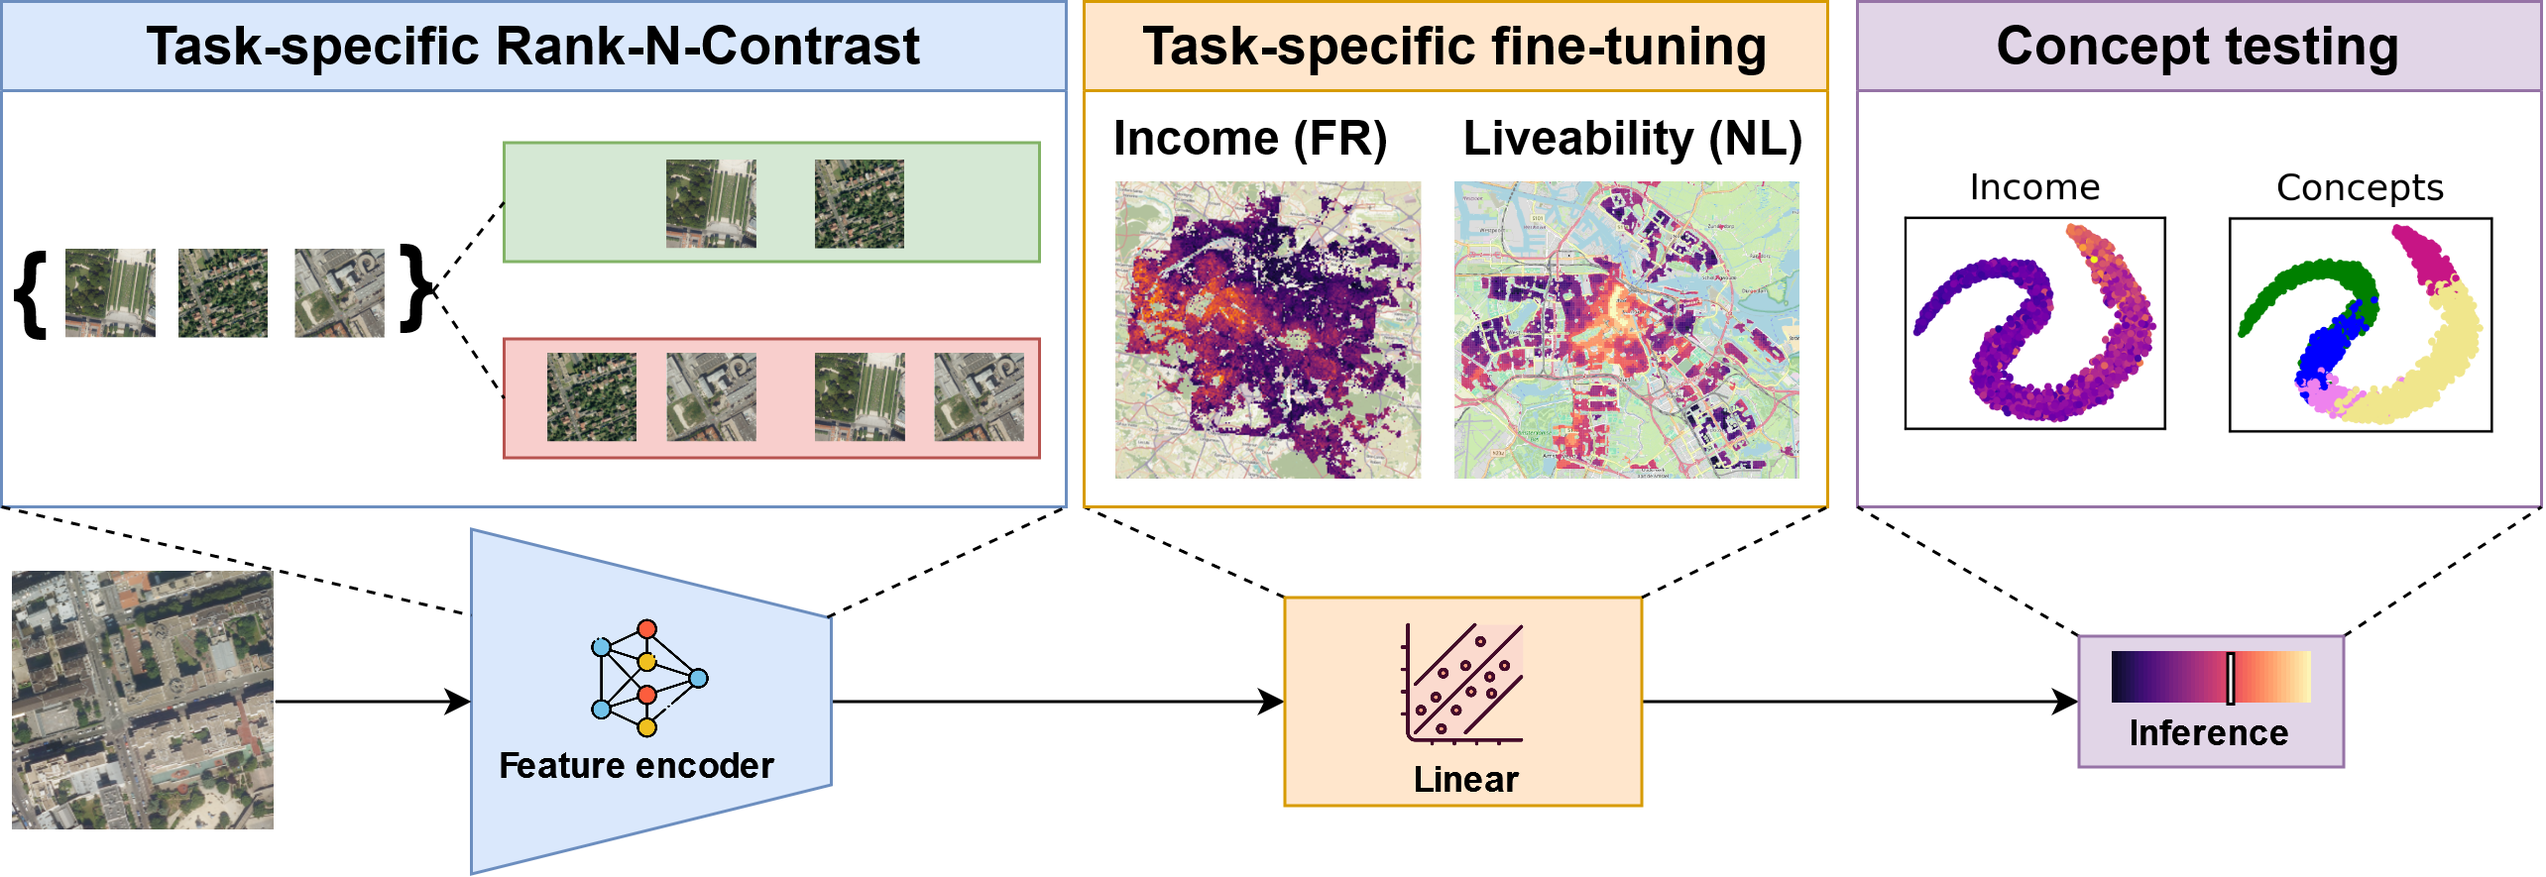
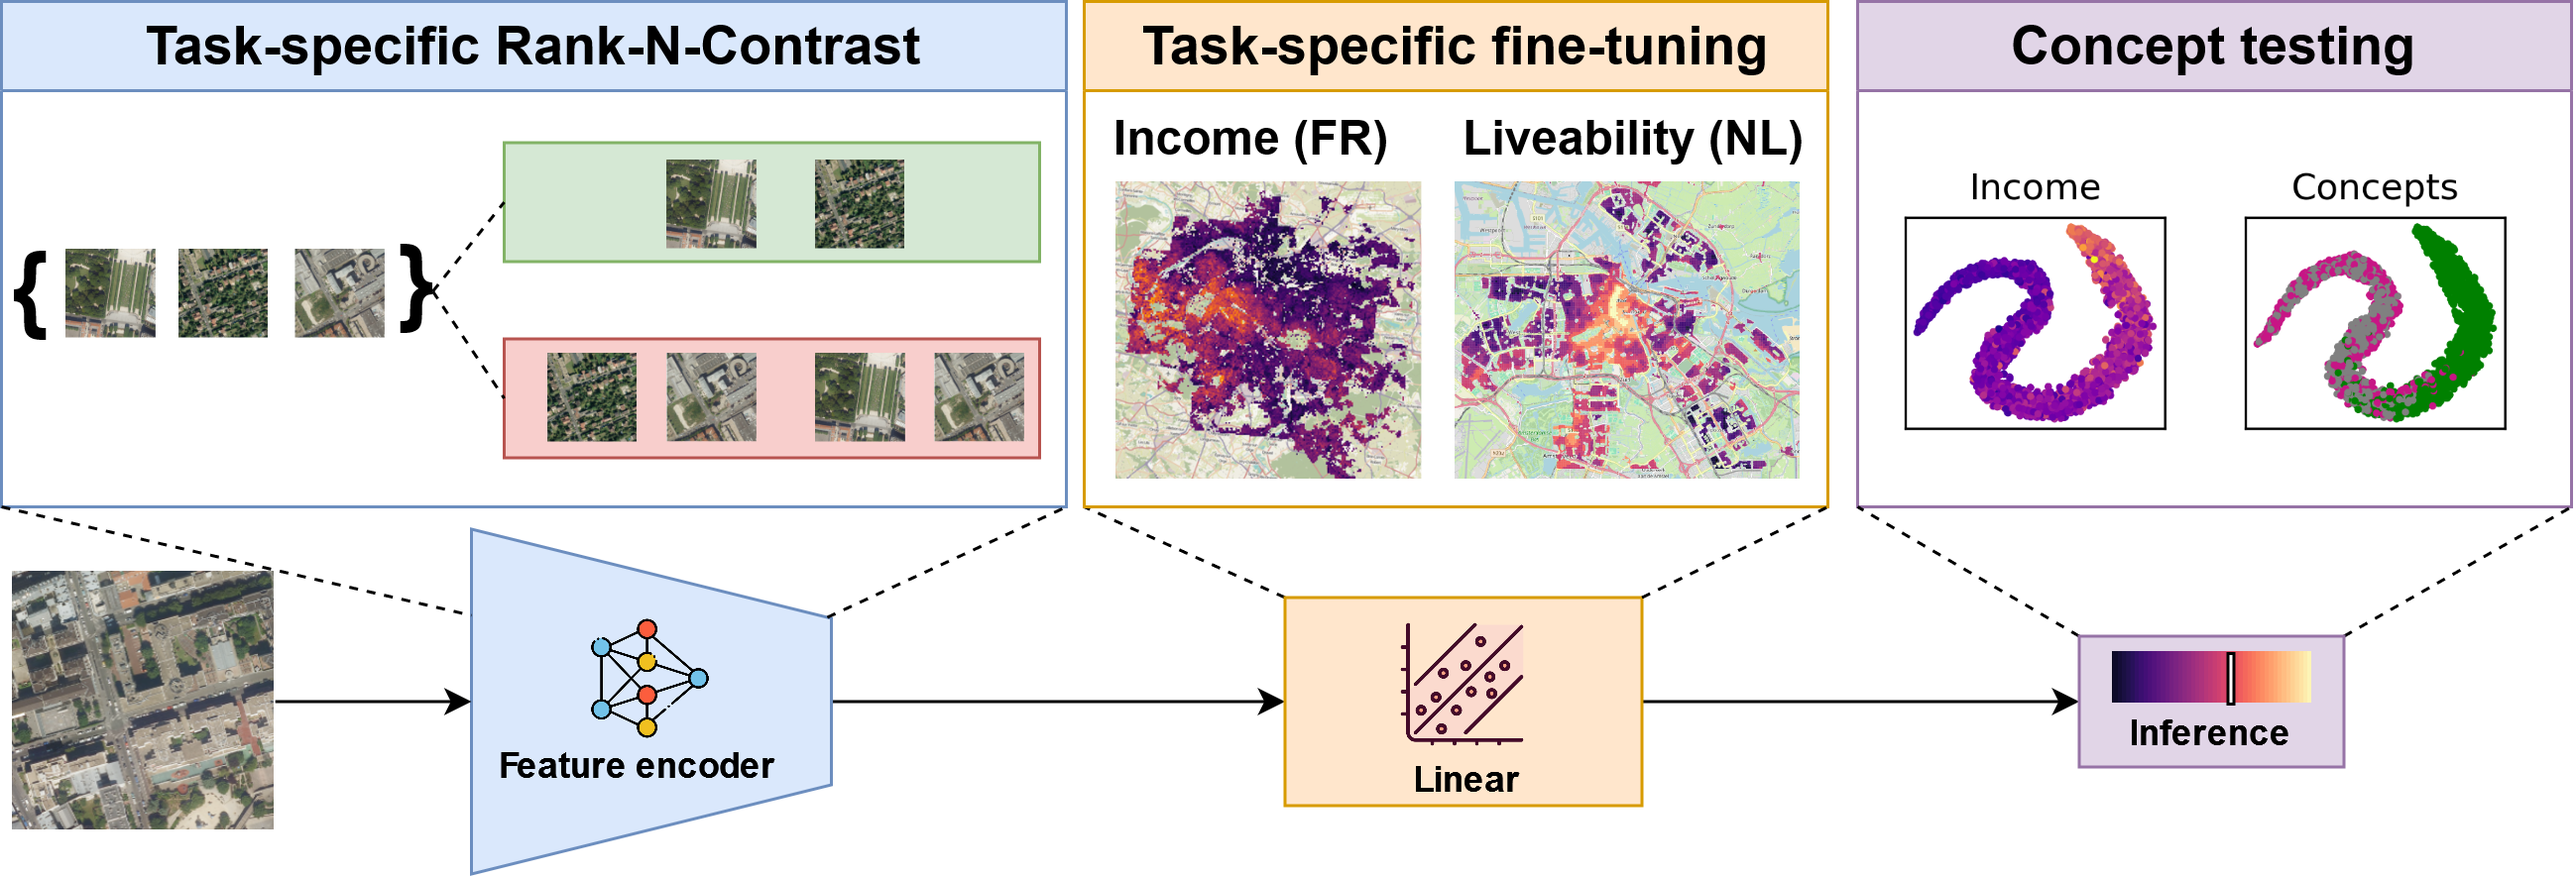
- Implemented separate min-max normalization for the positive and the negative TCAV values - Updated Readme

diff --git a/visualization/visualize_tcav.py b/visualization/visualize_tcav.py
@@ -68,11 +68,28 @@ def get_tcav_scores_with_tsne_activations(results_folder):
 
     return activations_tcav_scores
 
-def normalize_TCAV_value(concept_data):
+def min_max_norm(concept_data):
     max_concept_value = concept_data["TCAV_value"].max()
     min_concept_value = concept_data["TCAV_value"].min()
-    concept_data["TCAV_value"] = 2 * ((concept_data.TCAV_value - min_concept_value) / (max_concept_value - min_concept_value)) - 1
+    concept_data["TCAV_value"] = (concept_data.TCAV_value - min_concept_value) / (max_concept_value - min_concept_value)
     return concept_data
+
+def normalize_TCAV_value(concept_data):
+    normalized_concept_data = []
+    pos_concept_sensitivity = concept_data.loc[concept_data["TCAV_value"] >= 0]
+    negative_concept_sensitivity = concept_data.loc[concept_data["TCAV_value"] < 0]
+
+    if len(pos_concept_sensitivity.index) > 0:
+        pos_concept_sensitivity = min_max_norm(pos_concept_sensitivity)
+        normalized_concept_data.append(pos_concept_sensitivity)
+    if len(negative_concept_sensitivity.index) > 0:
+        negative_concept_sensitivity = min_max_norm(negative_concept_sensitivity)
+        # the negative concept values are normalized from 0 to -1
+        negative_concept_sensitivity["TCAV_value"] = negative_concept_sensitivity['TCAV_value'].apply(lambda x: -1 + x)
+        normalized_concept_data.append(negative_concept_sensitivity)
+
+    normalized_concept_data = pd.concat(normalized_concept_data)
+    return normalized_concept_data
 
 def visualize_tcav_scores_with_tsne_activations():
 
@@ -93,31 +110,29 @@ def visualize_tcav_scores_with_tsne_activations():
         fig, axs = plt.subplots(nrows=1, ncols=2,figsize=(6, 2.0))
         divider = make_axes_locatable(axs[1])  # Create a divider for colorbar placement
         cax = divider.append_axes('right', size='3%', pad=0.05)  # Add axes for colorbar
+        norm = plt.Normalize(-1, 1)
 
         plt.subplots_adjust(right=0.8)  # Adjust margins for spacing
 
-        ax_income = sns.scatterplot(x='tsne_dim_1', y='tsne_dim_2', hue='TCAV_value', palette="plasma",
+        ax_income = sns.scatterplot(x='tsne_dim_1', y='tsne_dim_2', hue='TCAV_value',  hue_norm=norm, palette="plasma",
                                     data=income_concept_data, s=5, ax=axs[0])
-        norm = plt.Normalize(income_concept_data['TCAV_value'].min(), income_concept_data['TCAV_value'].max())
-        sm = plt.cm.ScalarMappable(cmap="plasma", norm=norm)
-        sm.set_array([])
+
         ax_income.xaxis.set_major_locator(ticker.NullLocator())
         ax_income.yaxis.set_major_locator(ticker.NullLocator())
         ax_income.set(xlabel=None, ylabel=None)
         ax_income.get_legend().remove()
         ax_income.set_title("Income")
 
-        ax_liveability = sns.scatterplot(x='tsne_dim_1', y='tsne_dim_2', hue='TCAV_value', palette="plasma",
+        ax_liveability = sns.scatterplot(x='tsne_dim_1', y='tsne_dim_2', hue='TCAV_value', hue_norm=norm, palette="plasma",
                                          data=liveability_concept_data, s=5, ax=axs[1])
-        norm = plt.Normalize(liveability_concept_data['TCAV_value'].min(), liveability_concept_data['TCAV_value'].max())
-        sm = plt.cm.ScalarMappable(cmap="plasma", norm=norm)
-        sm.set_array([])
         ax_liveability.xaxis.set_major_locator(ticker.NullLocator())
         ax_liveability.yaxis.set_major_locator(ticker.NullLocator())
         ax_liveability.set(xlabel=None, ylabel=None)
         ax_liveability.get_legend().remove()
         ax_liveability.set_title("Liveability")
         label = "Conceptual sensitivity"
+        sm = plt.cm.ScalarMappable(cmap="plasma", norm=norm)
+        sm.set_array([])
         colorbar = fig.colorbar(sm, cax=cax, orientation='vertical')
         colorbar.set_label(label)
         colorbar.ax.set_ylabel(label, rotation=270, labelpad=15, fontsize=10)
@@ -163,7 +178,7 @@ def get_concept_layer_accuracy(dataset_name, baseline_model_folder, contrastive_
     axs.set_ylabel("SVM concept accuracy")
     plt.legend(loc='center right', title="Encoder")
     fig.tight_layout()
-    plt.savefig(os.path.join(visualization_out_dir_probed, "{}_concept_layer_accuracy.pdf".format(dataset_name)),
+    plt.savefig(os.path.join(visualization_out_dir_probed, "{}_concept_layer_accuracy.png".format(dataset_name)),
                 dpi=300)
     plt.close()
 

diff --git a/Readme.md b/Readme.md
@@ -6,7 +6,7 @@ The proposed pipeline enables intuitive visual explanations of the deep learning
 ![Proposed workflow](method_workflow.png)
 
 ## Implementation ##
-The implementation of the deep learning model relies on PyTorch, PyTorch ligthning and wandb. For the TCAV method, we used the implementation provided by the Captum library. It is reccomended to perform all these steps on GPU. 
+The implementation of the deep learning model relies on PyTorch, PyTorch ligthning and wandb. For the TCAV method, we used the implementation provided by the Captum library. It is reccomended to execute the code on GPU. 
 
 ### Datasets ###
 We evaluate the proposed pipeline on the tasks of estimating the household income dataset in Paris and the liveability city patches in the Netherlands.
@@ -19,7 +19,7 @@ Once the datasets are downloaded, the following steps need to be implemented:
 2. **Linear probing**: `python train_socioeconomic_model.py `<br>` --training_objective "regression" `<br>` --encoder_checkpoint_path <the relative path under the model directory of the contrastive pretrained checkpoint>`
 3. **Concepts testing** (computes the t-SNE activations and TCAV): `python concepts_testing.py`
 
-The description of the arguments that these scripts accept can be found in the python files. The default hyperparameters for the model training can be found in the /setup/training_params.yaml file and the scripts for visualization of the results can be found in the **visualization** directory.
+The description of the arguments that these scripts accept can be found in the corresponding python files. The default hyperparameters for the model training can be found in the /setup/training_params.yaml file and the scripts for visualization of the results can be found in the **visualization** directory.
 The model checkpoints are available under the **model_checkpoints** directory.
 
 
